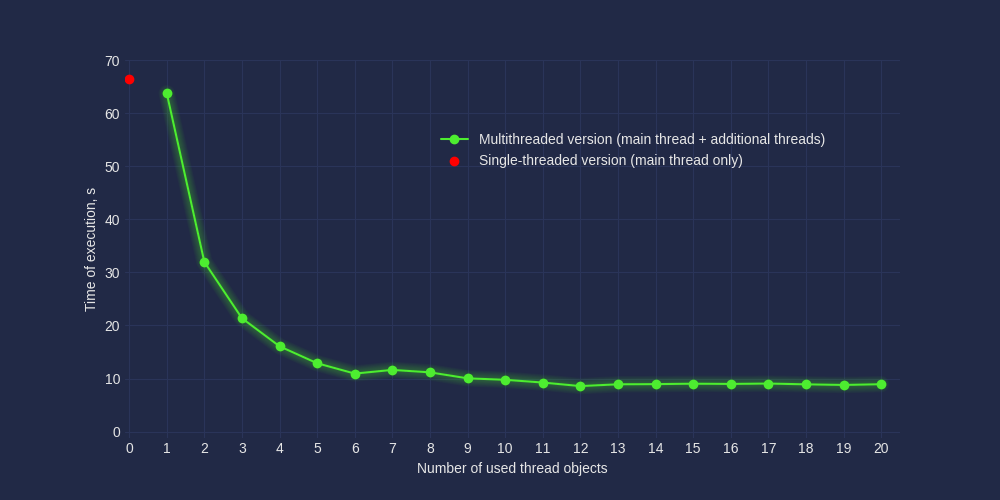
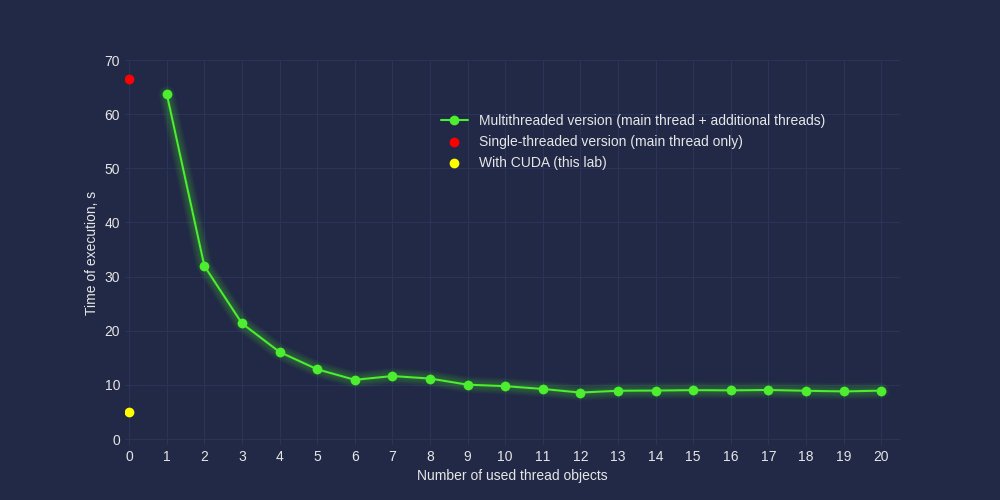
Seems like everything

diff --git a/src/options_parser.cpp b/src/options_parser.cpp
@@ -24,8 +24,6 @@ command_line_options_t::command_line_options_t() {
              "desired absolute error")
             ("rel_err", po::value<double>(&config.rel_err)->required(),
              "desired relative error")
-            ("n_threads", po::value<int>(&config.n_threads)->required(),
-             "number of threads (0 for contiguous)")
             ("x_start", po::value<double>(&config.x_start)->required(),
              "x coordinate of start of the domain of integration")
             ("x_end", po::value<double>(&config.x_end)->required(),
@@ -97,11 +95,6 @@ void command_line_options_t::validate_config() const {
     if (config.rel_err <= 0) {
         throw WrongConfigFileOptions("Positive rel_err expected, " +
                                      std::to_string(config.rel_err) +
-                                     " provided.");
-    }
-    if (config.n_threads < 0) {
-        throw WrongConfigFileOptions("Non-negative whole n_threads expected, " +
-                                     std::to_string(config.n_threads) +
                                      " provided.");
     }
     if (config.init_steps_x <= 0) {

diff --git a/plotter.py b/plotter.py
@@ -28,13 +28,17 @@ data = {
 data_concurrent_x = 0
 data_concurrent_y = 66442290
 
+data_cuda_x = 0
+data_cuda_y = 4974442
+
 plt.style.use("cyberpunk")
 
 fig1 = plt.figure("Figure_1", figsize=(10, 5))
 ax1 = fig1.add_subplot(1, 1, 1)
 
 ax1.plot(data.keys(), np.array(list(data.values())) / 10**6, marker='o', color='#4ded30')
-ax1.scatter(0, data_concurrent_y / 10**6, color='red')
+ax1.scatter(data_concurrent_x, data_concurrent_y / 10**6, color='red')
+ax1.scatter(data_cuda_x, data_cuda_y / 10**6, color='yellow')
 ax1.set_xlim(-0.11, 20.5)
 ax1.set_ylim(-1.1, 70)
 ax1.xaxis.set_major_locator(MultipleLocator(1))
@@ -42,7 +46,8 @@ ax1.yaxis.set_major_locator(MultipleLocator(10))
 ax1.set_xlabel("Number of used thread objects")
 ax1.set_ylabel("Time of execution, s")
 ax1.legend(labels=["Multithreaded version (main thread + additional threads)",
-                   'Single-threaded version (main thread only)'],
+                   'Single-threaded version (main thread only)',
+                   'With CUDA (this lab)'],
            loc=[0.4, 0.7])
 
 mplcyberpunk.make_lines_glow()

diff --git a/src/conf.cpp b/src/conf.cpp
@@ -6,7 +6,6 @@
 std::ostream& operator<<(std::ostream& os, const Config& conf) {
     os << "abs_err: " << conf.abs_err << std::endl;
     os << "rel_err: " << conf.rel_err << std::endl;
-    os << "n_threads: " << conf.n_threads << std::endl;
     os << "x_start: " << conf.x_start << std::endl;
     os << "x_end: " << conf.x_end << std::endl;
     os << "y_start: " << conf.y_start << std::endl;

diff --git a/runner.py b/runner.py
@@ -34,7 +34,6 @@ PATH_TO_EXECUTABLE = "./bin/integrate_task_4"
 CONFIG_FILE_DICT = {
     'abs_err': 0.0000005,
     'rel_err': 0.00002,
-    'n_threads': 0,
     'x_start': -10,
     'x_end': 10,
     'y_start': -10,

diff --git a/include/conf.h b/include/conf.h
@@ -15,7 +15,6 @@ struct Config {
     double x_end = 0;
     double y_start = 0;
     double y_end = 0;
-    int n_threads = 0;
     int init_steps_x = 0;
     int init_steps_y = 0;
     int max_iter = 0;

diff --git a/readme.md b/readme.md
@@ -1,4 +1,4 @@
-# Lab work 2: Parallelization of evaluation of integral of a given function
+# Lab work 2: Parallelization of evaluation of integral of a given function with CUDA
 Author: <a href="https://github.com/bogdanmagometa">Bohdan Mahometa</a><br>
 Variant: 4 (Langermann function)
 
@@ -8,16 +8,20 @@ The following tools need to be available in order to use the project:
 - GCC
 - Cmake and Make
 - Boost library (Boost::program_options Boost::system are used in the project)
-- pip
-- Python 3
+- Python 3 (if you want to use scripts)
+- `numpy`, `matplotlib` and `mplcyberpunk` Python packages if you want to run `plotter.py`
 
 ### Compilation
 
 In order to get an executable of the program calculating integral, execute the following in the 
 project's root directory.
 ```bash
-$ ./compile.sh -d -O -R
+$ CUDACXX=nvcc ./compile.sh -d -O -R
 ```
+
+<b>Note:</b> You can replace nvcc with path to your CUDA compiler.
+
+<b>Note:</b> There are warnings during compilation.
 
 ### Usage
 
@@ -39,7 +43,6 @@ The content of ```<path-to-configuration-file>``` should be in TOML format with 
 set of specified arguments:
 - abs_err - desired absolute error
 - rel_err - desired relative error
-- n_threads - number of threads. 0 means single-threaded version
 - x_start - left bound of integration along x axis
 - x_end - right bound of integration along x axis
 - y_start - lower bound of integration along y axis
@@ -73,27 +76,26 @@ The script prints out the minimum execution time among all runs (in microseconds
 
 ### Important!
 
-I used PVS Studio to check for the problems. All warnings that are still found by PVS Studio 
-haven't been fixed by me deliberately.
-
 ### Results
 
-I ran the executable several times for each value of n_threads argument from 0 through 20.
-The following were other values of arguments in configuration file:
-- abs_err = 0.0000005
-- rel_err = 0.00002
-- x_start = -10
-- x_end = 10
-- y_start = -10
-- y_end = 10
-- init_steps_x = 100
-- init_steps_y = 100
-- max_iter = 10
+I ran the executable 5 times with the following configuration file:
+```text
+abs_err = 0.0000005
+rel_err = 0.00002
+x_start = -10
+x_end = 10
+y_start = -10
+y_end = 10
+init_steps_x = 100
+init_steps_y = 100
+max_iter = 10
+```
 
-I got the following relation between number of threads and execution time:
+
+The following chart compares <b style="color: yellow;">CUDA implementation</b> vs
+<b style="color: #4cec30;">implementation with thread objects</b> vs
+<b style="color: red;">concurrent implementation</b>:
 
 ![Relationship between ](./img/time_plot.png)
 
 # Additional tasks
-
-Not yet
